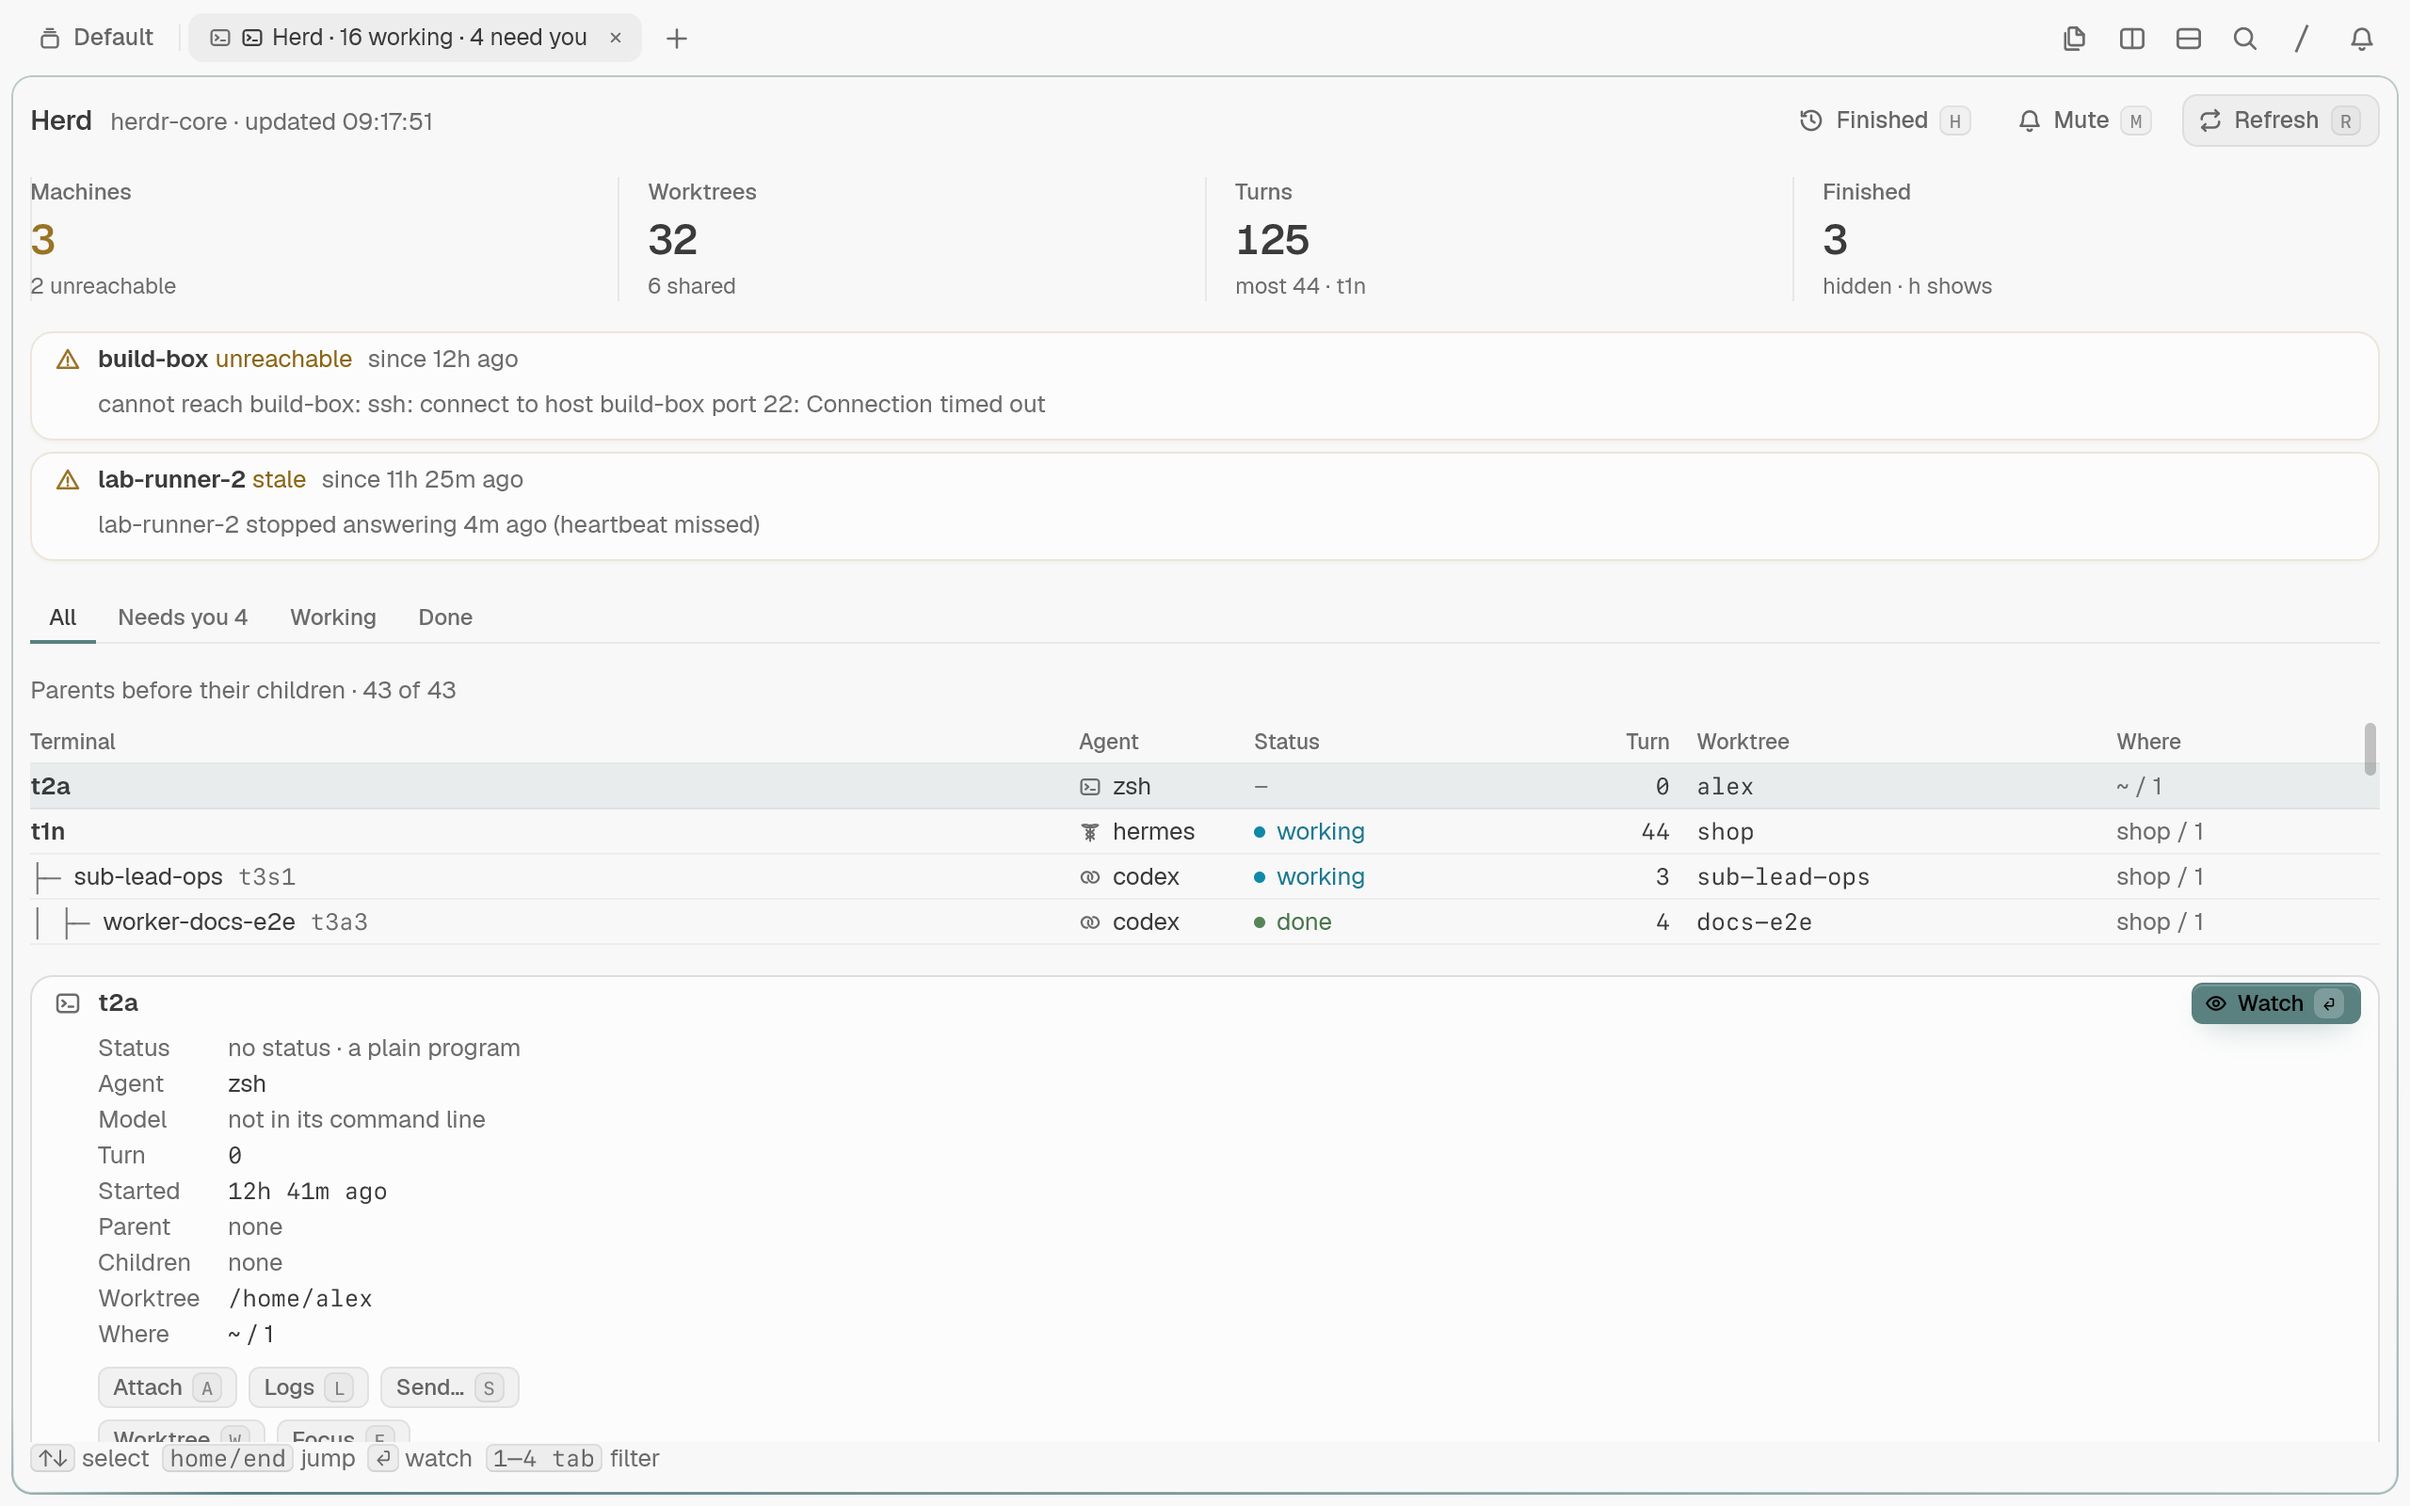
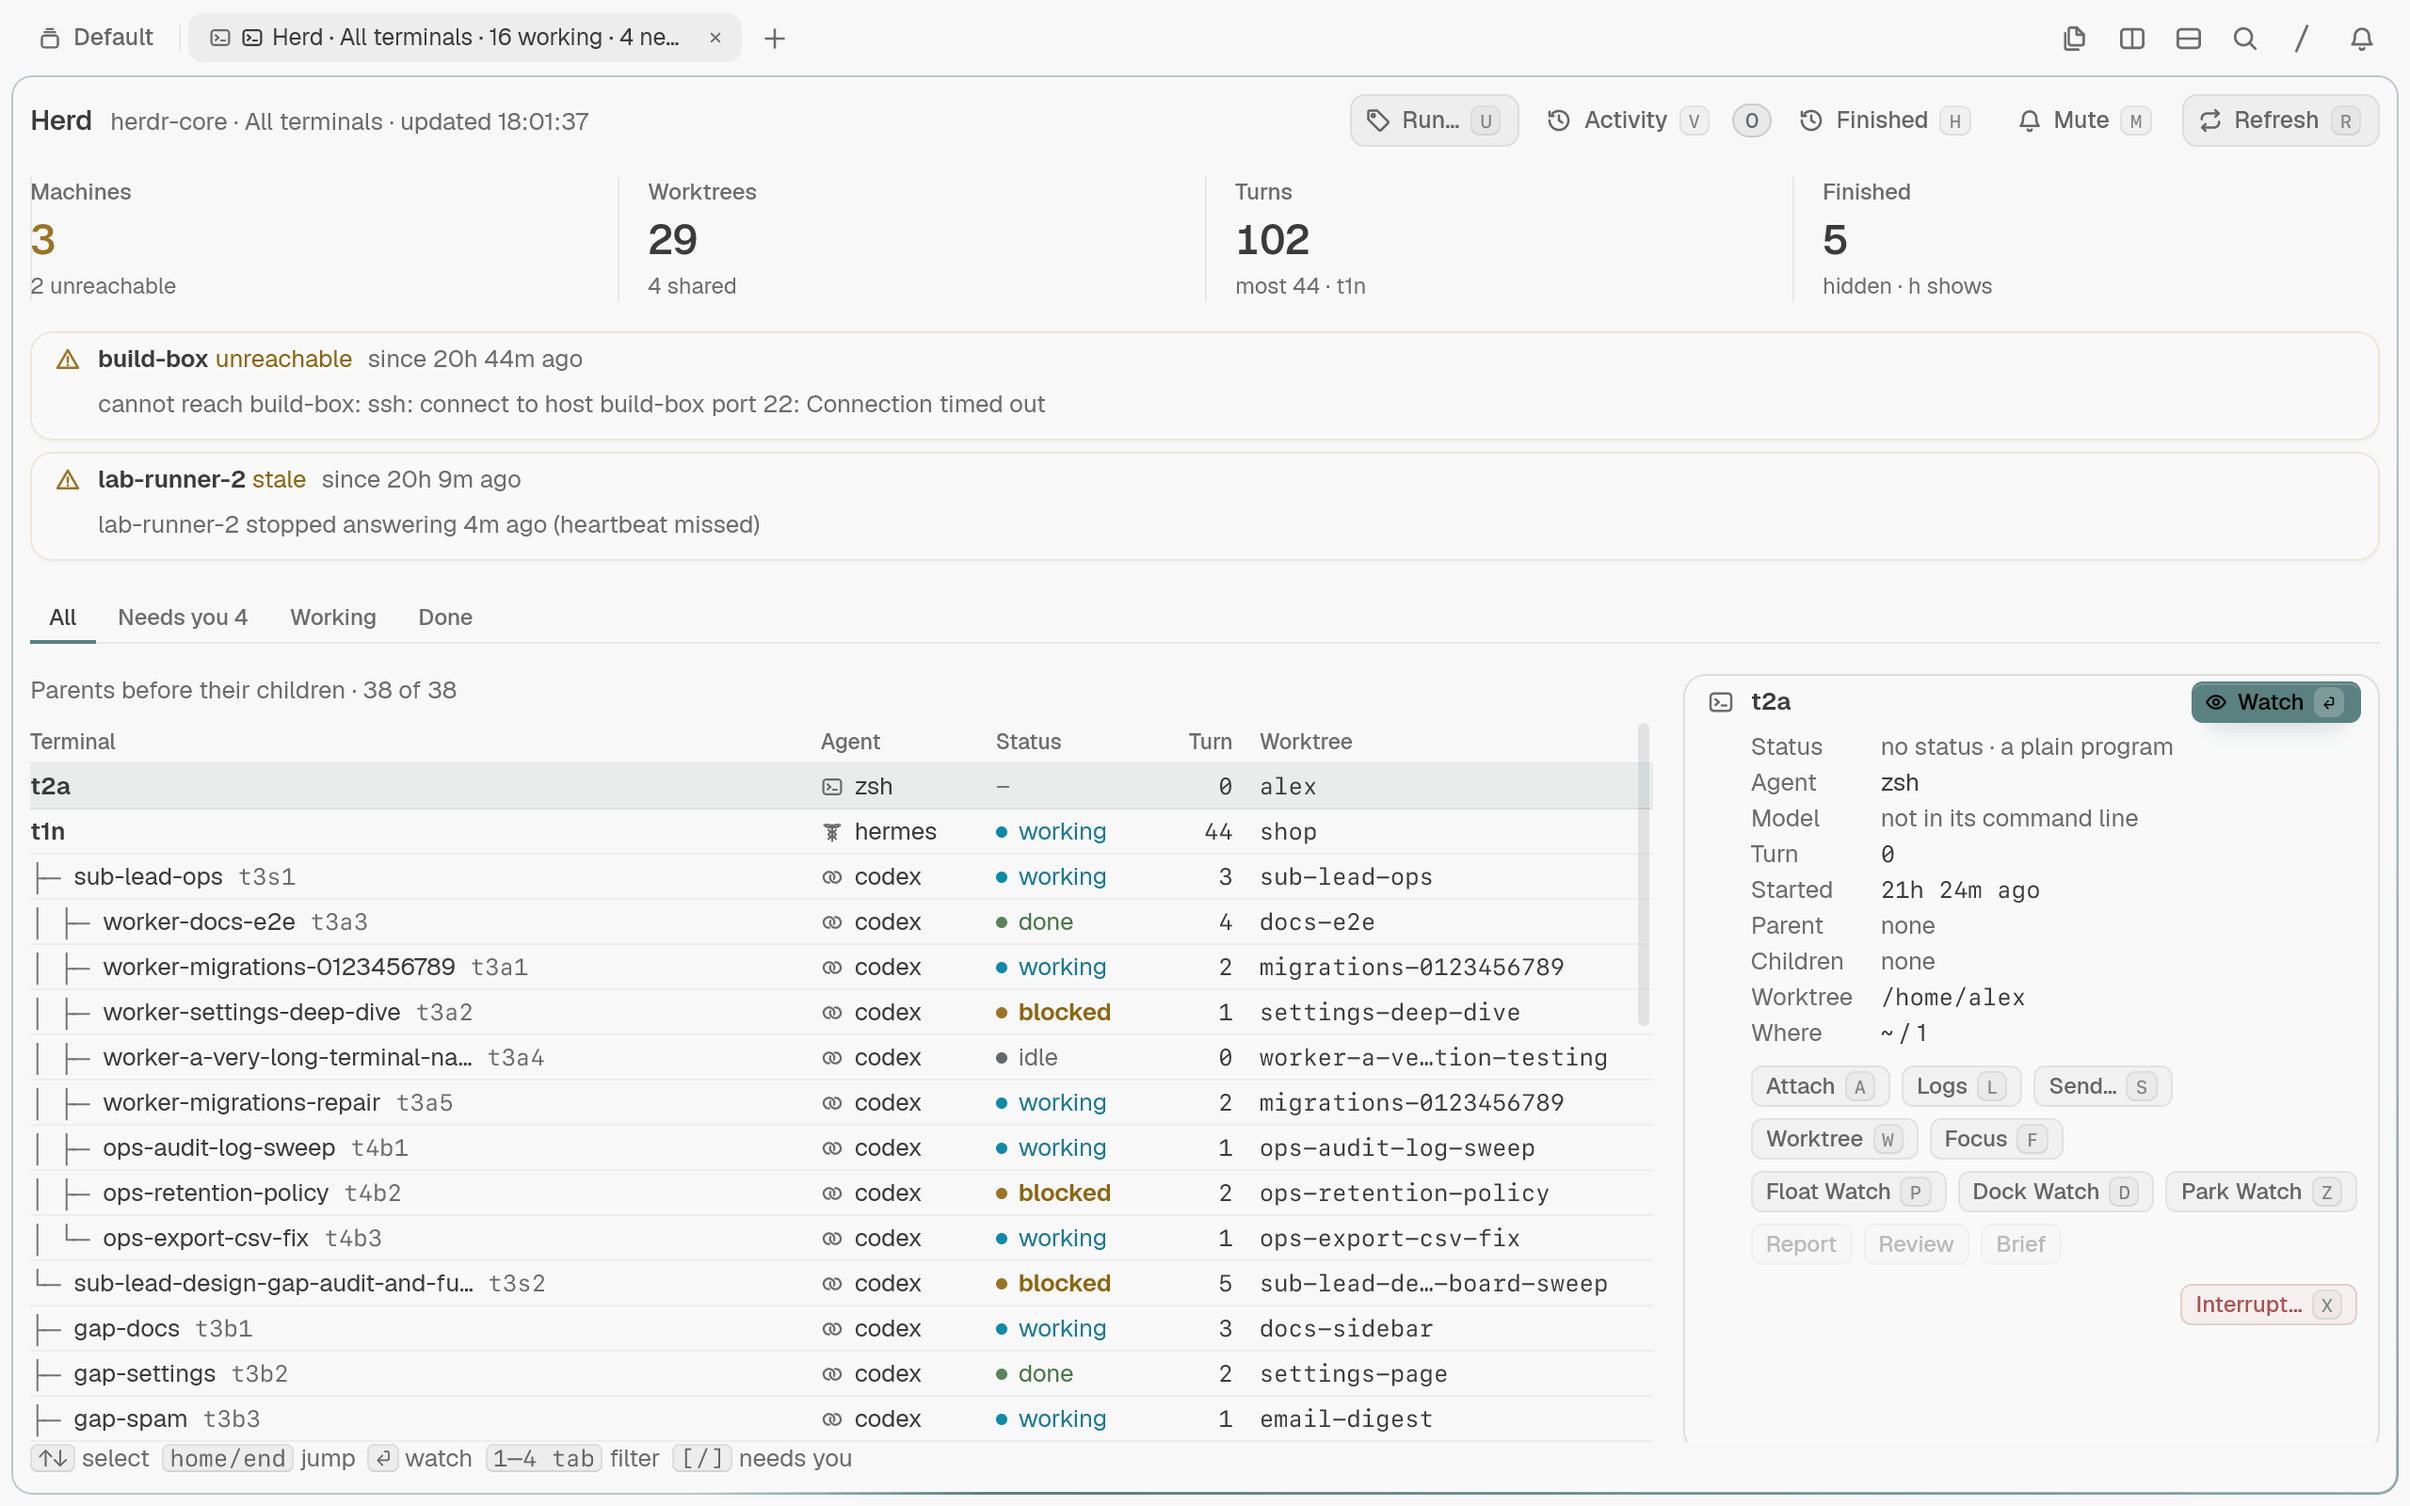
Refresh README screenshots for 0.3.0

diff --git a/test/README.md b/test/README.md
@@ -28,13 +28,13 @@ cd ~/code/tern-herd
 | `--size WxH` | viewport in CSS px (`resize W H`), e.g. `700x900`. Default: the serve's own, 1280x800 |
 | `--keys "TOKEN …"` | `tern ctl key` tokens, `dblclick:CSS` selectors, or pause tokens `wait:MS` / `sleep:MS` (below); selectors cannot contain spaces |
 | `SHOOT_KEEP=1` | keep the run's temp dir and leave the serve running (it prints the control socket); stop it yourself |
-| `SHOOT_HOOK='…'` | run a strict shell snippet after the fake-hc assertion, with `$TEST`, `$T` (temp dir), `$SOCK` (control socket), `$TERNFD` (the `tern` binary) and `$KVFILE` (the already validated private plugin-storage file) set; failure fails the run |
+| `SHOOT_HOOK='…'` | run a strict shell snippet after the fake-hc assertion, with `$TEST`, `$T` (temp dir), `$SOCK` (control socket), `$TERNFD` (the `tern` binary), `$KVFILE` (the already validated private plugin-storage file) and `$SERVE_PID` set; artifact runs also provide `$ARTIFACT_HOME`, `$ARTIFACT_ROOT`, `$ARTIFACT_MISSING` (empty otherwise); failure fails the run |
 | `SHOOT_PLUGIN_DIR=DIR` | test a private plugin working copy instead of the linked source |
 | `SHOOT_CONTENDER=1` | load a second independent copy of the production window VM against the same host requests |
 | `SHOOT_NO_CONSUMER=1` | load a bootstrap-only window half; no action consumer, for expiry and manual claim tests |
 | `SHOOT_WORKTREE=1` | replace fixture cwd values in the temporary copy with a new private git repository for `w` |
 | `SHOOT_PHASED=1` | copy the fixture privately before starting Tern, park `seq/` as `phases/`, and hold phase 01 until a hook atomically promotes another snapshot; never edits repository fixtures |
-| `SHOOT_ARTIFACTS=1` | copy `artifacts` fixture/files privately, rewrite local cwd values to real private directories, set review mtimes deterministically, and log genuine GNU `find` calls; repository fixtures are unchanged |
+| `SHOOT_ARTIFACTS=1` | copy `artifacts` fixture/files under `$T/home/alex`, use real private checkout cwd values and an artifact-only serve `HOME`/`XDG_CONFIG_HOME`, set review mtimes deterministically, and log genuine GNU `find` calls; repository fixtures and other scenarios' environments are unchanged |
 
 ### `sleep:MS` vs `wait:MS`
 
@@ -86,6 +86,10 @@ every run gets its own everything:
 - its own `TERN_CONFIG_DIR`, `XDG_STATE_HOME`, `XDG_DATA_HOME`,
   `XDG_CACHE_HOME` under `<tmp>`, so `tern.kv` (`hc_path`, scope state, activity) written by
   the block lands in the run's state, never in `~/.local/state/tern/plugin-data`;
+- artifact-enabled runs additionally set only their serve's `HOME` to
+  `<tmp>/home/alex` and `XDG_CONFIG_HOME` to `<tmp>/xdg/config`, overriding any
+  inherited config-home path; the harness/hook `HOME`, live checksum roots and
+  every other scenario's environment remain unchanged;
 - `STENCIL_FIXTURE_ROOT=<tmp>/crates/tern`, so the plugin is loaded from the
   run's copy of `plugins/herd`, not the linked one;
 - a fake `hc` first on `PATH`, as `<tmp>/bin/hc` (a wrapper that bakes the
@@ -478,13 +482,35 @@ complete terminal audit.
 
 Artifact cases run with `SHOOT_ARTIFACTS=1` and the real production permission
 mailbox, filesystem helper, native configuration prompt and `cx.docs:open`.
-The copied fixture's local cwd fields point to `<tmp>/artifacts` and
-`<tmp>/artifacts-missing`; the source fixture retains fictional paths. Actual
-fixture file contents are copied into the former, and mtimes explicitly make
-`review-001.md` newer than `review-999.md`. A private PATH wrapper logs argv
-then runs `/usr/bin/find` unchanged. It never invents matches or context
-replies. Native file-pane paths and readable content, not a mocked open result,
-prove a document opened.
+The copied fixture's local cwd fields point to real private checkouts:
+
+- `ARTIFACT_HOME=$T/home/alex`
+- `ARTIFACT_ROOT=$ARTIFACT_HOME/code/shop/.worktrees/cart-totals`
+- `ARTIFACT_MISSING=$ARTIFACT_HOME/code/shop/.worktrees/checkout-layout`
+
+`shoot.sh` passes these shared variables to hooks; hooks must reuse them for
+actual-file, native-document, mtime and stale-discovery assertions. Fixture
+contents are copied into `$ARTIFACT_ROOT/.scratch` (no symlinks or old-path
+aliases), while the missing peer is an empty directory. The source fixture
+retains its fictional paths. Only this serve gets `HOME=$ARTIFACT_HOME` and a
+private `XDG_CONFIG_HOME`, so the unchanged production host's native HOME-based
+tilde handling renders `~/code/shop/.worktrees/cart-totals` in the selected card.
+No plugin, source or display-text rewriting is used.
+
+All six artifact cases inspect the actual serve's `/proc/$SERVE_PID/environ`
+(Linux) to prove its private HOME, config, XDG and socket settings, check physical
+checkout paths under `$T`, and reassert exact `hc_path == "$T/bin/hc"` in private
+KV plus a real fake-`hc` list invocation. They require the selected card's
+rendered text to contain the expected tilde worktree and no `/tmp/herd-shoot`
+prefix, including the missing checkout when selected. This reads only native
+card text nodes, not inert surface metadata or absolute internal path properties.
+The harness's original fake candidate pin and pre-hook KV guard are unchanged.
+
+Mtimes explicitly make `review-001.md` newer than `review-999.md`. A private PATH
+wrapper logs argv then runs `/usr/bin/find` unchanged; its stale-selection hold
+targets `$ARTIFACT_ROOT`. It never invents matches or context replies. Native
+file-pane paths and readable content, not a mocked open result, prove a document
+opened.
 Configuration is a global window preference: saving requires no Herd pane,
 console focus or host configuration mailbox. Discovery and document opens
 still use the real local-host permission path.

diff --git a/CHANGELOG.md b/CHANGELOG.md
@@ -9,24 +9,12 @@ in the same commit; see [AGENTS.md](AGENTS.md#releases).
 
 ### Added
 
-- Run picker in the console and palette, with remembered labels, saved scope,
-  scope-aware status counts and confirmations that cannot cross scope changes;
-  the palette opens a missing console before presenting its picker.
-- Next/previous needs-you commands and global shortcuts focus the console and
-  cycle blocked/errored terminals in its saved scope, without automatically attaching.
-- Activity inbox with shared, scope-aware unread badges, observed transition
-  metadata, explicit Mark read/Clear controls and non-selected finish recording
-  even while finished terminal rows are hidden.
-- Public static Luau type-check CI with pinned, checksum-verified analyzer and
-  Tern declarations; local `test/typecheck.sh` checks both plugin halves.
-- Watch reuses its read-only viewer across repeated opens and plugin reloads;
-  explicit Float Watch (`p`), Dock Watch (`d`) and Park Watch (`z`) controls
-  arrange that view without stopping its hc terminal. Writable Attach remains
-  a separate new split.
-- Configurable local artifact links on the selected card: Report, newest-by-mtime
-  Review (with exact subsecond ordering) and Brief by default, with native document
-  opening and selected-only, debounced discovery. Global palette preferences work
-  without opening a console. Remote hc and remote/unknown Tern source paths are refused.
+- Run picker in the console and palette switches between All terminals and remembered run scopes without reopening the console.
+- Next/previous needs-you commands and global shortcuts focus the console and cycle blocked or errored terminals without attaching.
+- Activity inbox shows observed terminal updates with unread badges and Mark read/Clear controls, including finishes while finished rows are hidden.
+- Static Luau type-check in CI and locally with `test/typecheck.sh` checks every plugin module.
+- Watch reuses its read-only viewer; Float Watch (`p`), Dock Watch (`d`) and Park Watch (`z`) arrange it without stopping the terminal. Writable Attach stays separate.
+- Report, Review and Brief buttons on the selected card open those files from the terminal’s worktree in Tern; the paths are configurable (palette: Configure Herd artifacts). Local terminals only; needs GNU find.
 
 ### Changed
 

diff --git a/README.md b/README.md
@@ -35,9 +35,13 @@ These show made-up data from the isolated test harness, never a real work sessio
 
 ![Logs card showing a fictional lead's recent output](docs/screenshots/logs.png)
 
-![Transition toast after a fictional builder becomes blocked](docs/screenshots/transition.png)
+![Fictional terminal transitions with completed builders, a hidden finish and unread activity](docs/screenshots/transition.png)
 
 ![Deep terminal tree with nested leads, many workers and a scrolling table](docs/screenshots/deep.png)
+
+![Activity inbox with unread blocked, completed and finished-terminal updates and Mark read/Clear controls](docs/screenshots/activity.png)
+
+![Selected local terminal card with Report, Review and Brief buttons for fictional worktree files](docs/screenshots/artifacts.png)
 
 ## Requirements
 
